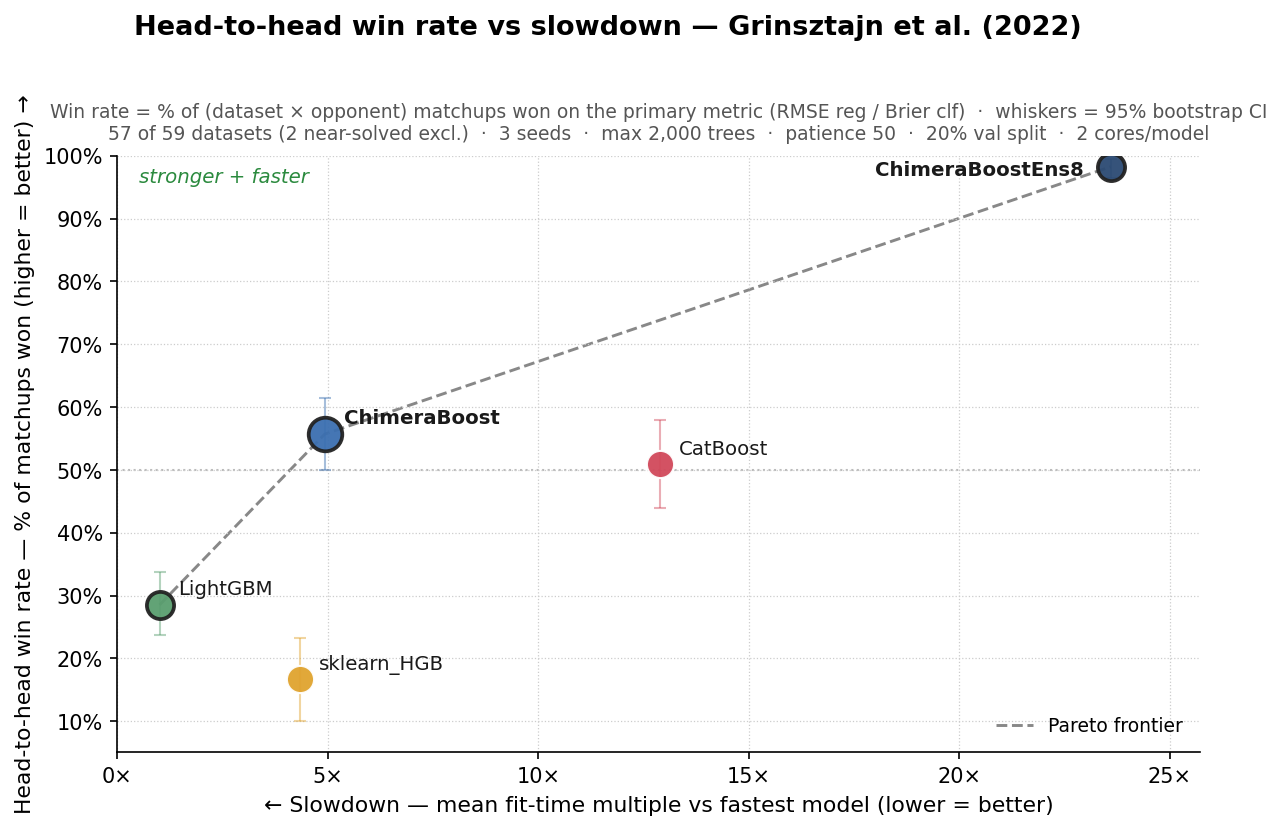
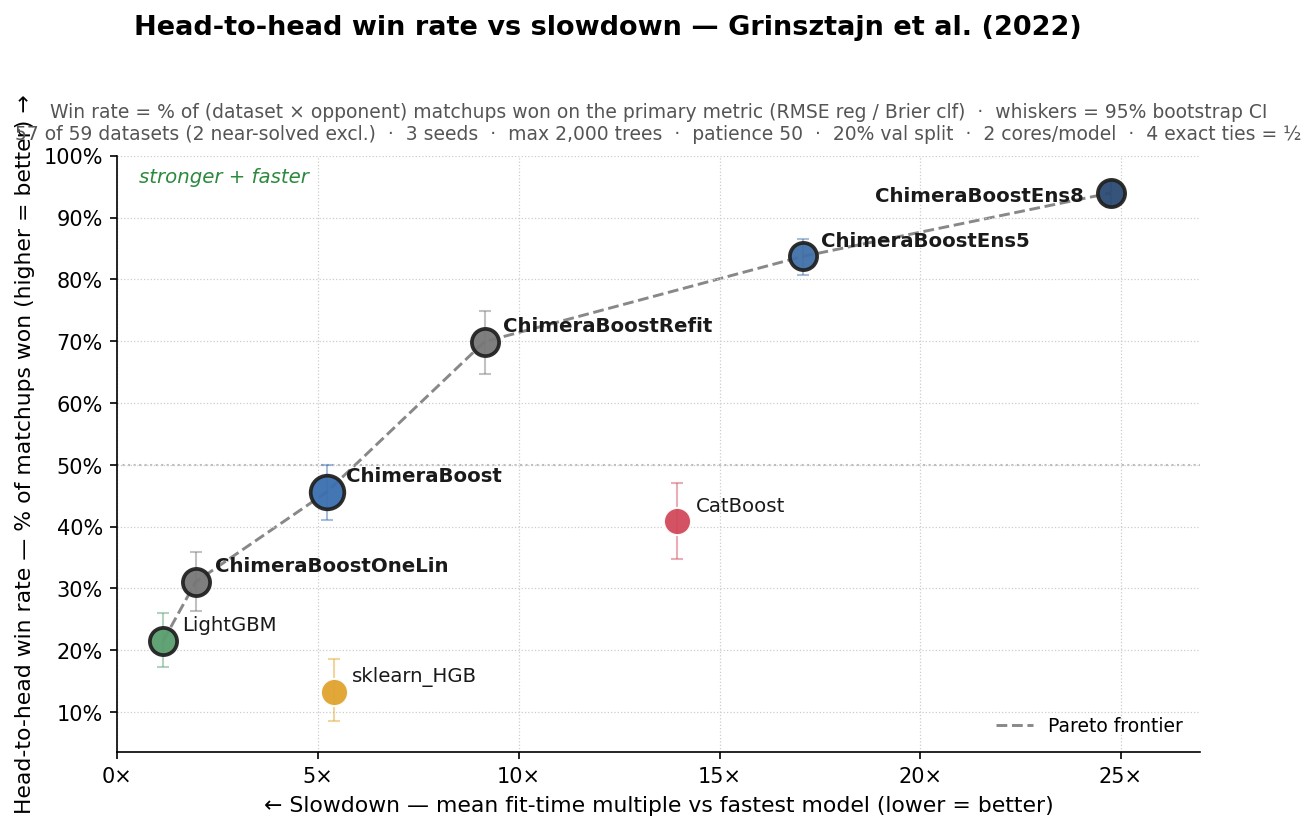
SELECT closed: five-rung ladder charted, quality shipped, docs
Ladder co-run (results/20260725-155127.json, Grinsztajn, 3 seeds, every
rung in ONE run so the column is comparable) puts all five rungs on the
Pareto frontier: 31.1% @ 1.95x, 45.6% @ 5.22x, 69.9% @ 9.15x, 83.7% @
17.07x, 94.0% @ 24.74x. LightGBM holds only the extreme-left corner at
21.6% @ 1.14x; CatBoost is dominated outright, beaten by rung 3 on both
axes (69.9 vs 40.9 at 9.15x vs 13.93x). Rung 4 finally has a real
number -- 17.07x, not the stale ~43x that predated quantized histograms
and selection_rounds=100.

Win rate is field-relative, so absolute values sit below the previously
charted ones purely because the field now contains five ChimeraBoost
arms. Only within-run comparisons are meaningful; that is stated in the
plan rather than left for a reader to trip over.

High-card was sign-tested separately before any docs claim, and it is
where rung 1 is weakest: it loses to the default 1W-6L-7T and saves only
1.54x, because the cat/prep block is a fixed 15-25% of fit that skipping
auditions cannot touch. Documented as a caveat, not hidden.

Refreshes images/pareto.png and winrate_matrix.png from the ladder run.
599 tests green.

Claude-Session: https://claude.ai/code/session_01QL8dKTqwRwQj3j8yJSJVw3

diff --git a/benchmarks/SELECT_PLAN.md b/benchmarks/SELECT_PLAN.md
@@ -149,8 +149,83 @@ Note the 24 exact ties in this run (charted runs report 0): `Sel25` and
 the default frequently resolve to the identical model, which is itself
 the evidence that the extra 75 audition rounds usually change nothing.
 
+## Phase 1 — canonical field (`results/20260725-152037.json`)
+
+`OneLin` holds up against the charted 5-arm field plus itself: **41.4% @
+1.93x**, on the frontier, chord needed 34.8% ⇒ **+6.6 points**. Reference
+points that run: ChimeraBoost 60.0% @ 5.13x, Ens8 98.6% @ 24.80x,
+LightGBM 28.8% @ 1.16x, CatBoost 53.0% @ 13.61x (dominated).
+
+### High-card is where rung 1 is weakest (`results/20260725-154149.json`)
+
+Sign-tested separately as registered, 14 sets, 3 seeds:
+
+- vs the default: **1W-6L-7T, mean −0.228%, median +0.000%** — it loses.
+- vs LightGBM: **7W-6L-1T, mean +0.936%** (7W-5L excluding the near-solved
+  `hc:cjs`; the full-set bar reads FAIL, the near-solved-excluded bar
+  PASS — `compare_runs` flags the disagreement).
+- Speed saving shrinks to **1.54x** (vs 2.7x on Grinsztajn): the cat/prep
+  block is a fixed 15-25% of fit that skipping auditions cannot touch.
+
+Documented as a caveat rather than hidden — rung 1 is for numeric-heavy
+data and sweeps; categorical-dominated data wants rung 2.
+
+## Ladder co-run (`results/20260725-155127.json`) — all five rungs on the frontier
+
+Every rung measured in ONE run against one field, which is what makes the
+column comparable. This run regenerated `images/pareto.png`.
+
+| rung | arm | win rate | slowdown | frontier |
+|---|---|--:|--:|---|
+| 5 max | Ens8 | 94.0% | 24.74x | yes |
+| 4 ensemble | Ens5 | 83.7% | 17.07x | yes |
+| 3 accurate | Refit | 69.9% | 9.15x | yes |
+| 2 balanced | ChimeraBoost | 45.6% | 5.22x | yes |
+| 1 fast | OneLin | 31.1% | 1.95x | yes |
+| — | CatBoost | 40.9% | 13.93x | **no** |
+| — | LightGBM | 21.6% | 1.14x | yes |
+| — | sklearn_HGB | 13.3% | 5.39x | no |
+
+- **The frontier is a ChimeraBoost ladder**: five non-dominated rungs from
+  1.95x to 24.74x, with LightGBM holding only the extreme-left corner.
+  CatBoost is dominated outright — rung 3 is both stronger (69.9 vs 40.9)
+  and faster (9.15x vs 13.93x).
+- **Rung 4 finally has a number: 17.07x**, not the stale ~43x that
+  predated quantized histograms and `selection_rounds=100`.
+- Win rate is **field-relative**. Absolute values are lower here than in
+  Phase 1 because the field now holds five ChimeraBoost arms, which are
+  strong opponents. Only within-run comparisons are meaningful.
+- Bars A/B were registered for the FAST rung. Applying the chord to rungs
+  3-5 is meaningless — it extrapolates past its own strong anchor and
+  demands >100% win rates. Frontier membership is by domination and is
+  the valid reading there.
+
+## Shipped
+
+`quality=1..5` (`chimeraboost/sklearn_api.py`), a named operating point
+that only pins existing parameters. `quality=None` and `quality=2` are
+both bit-identical to the current defaults, and `quality=1` is
+bit-identical to the benchmarked `OneLin` arm on both estimators — so the
+numbers above are the parameter's own, not a lookalike's. Defaults
+unchanged, so no OpenML gate is owed. Docs: `docs/recipes.md`,
+`docs/parameters.md`.
+
+## Still open
+
+- **`Sel25`** — auditions at 25 rounds instead of 100 were parity on
+  Grinsztajn (20W-23L-16T, mean −0.044%, median exactly +0.000%) for 26%
+  less fit time. A default change, so it needs its own /experiment with
+  the full gate. The 16 exact ties are the tell: three-quarters of the
+  audition budget usually changes nothing.
+- **A "use cross features without auditioning" mode.** Rung 1 currently
+  drops cross features entirely because `cross_features=True` still races
+  (`sklearn_api.py:1443`). A forced-on mode could give a stronger rung 1
+  at the same one-fit cost. Untested.
+
 ## Log
 
 - 2026-07-25: pre-registered.
 - 2026-07-25: Phase 0 PASS on `OneLin`; `One` killed; `Sel25` parity
-  finding recorded for a separate /experiment. Phase 1 next.
+  finding recorded for a separate /experiment.
+- 2026-07-25: Phase 1 PASS, high-card caveat measured, ladder co-run
+  charted, `quality=1..5` shipped. Program closed.

diff --git a/docs/recipes.md b/docs/recipes.md
@@ -20,6 +20,46 @@ proba = clf.predict_proba(X_test)       # columns follow clf.classes_
 
 A plain `fit(X, y)` early-stops on an internal holdout — see [Early stopping](#early-stopping).
 
+## Speed/accuracy ladder
+
+`quality` picks an operating point, from `1` (fastest) to `5` (strongest).
+It is shorthand only: every rung just sets the parameters in the last column,
+and `quality=2` is byte-for-byte the shipped defaults.
+
+```python
+reg = ChimeraBoostRegressor(quality=1, random_state=0).fit(X_train, y_train)
+```
+
+| `quality` | name | fit time | sets |
+|---|---|--:|---|
+| `1` | fast | **1.9x** | `linear_leaves=True`, `cross_features=False` |
+| `2` | balanced *(= default)* | 5.2x | — |
+| `3` | accurate | 9.2x | `refit_full=True` |
+| `4` | ensemble | 17.1x | `n_ensembles=5` |
+| `5` | max | 24.7x | `n_ensembles=8` |
+
+Fit time is the mean multiple of the fastest model on each Grinsztajn dataset,
+3 seeds. All five rungs sit on the accuracy/speed Pareto frontier — each one
+buys real accuracy for its extra time, and none is dominated by another.
+
+**What rung 1 gives up.** By default ChimeraBoost auditions its own
+configuration — constant against linear leaves, plain against cross features —
+which costs two to four boosting fits. `quality=1` pins both decisions instead
+of racing them, so it fits once. On the Grinsztajn suite it still beats
+LightGBM (38 wins to 21) at roughly 1.7x LightGBM's fit time. On
+high-cardinality categorical data the trade is thinner: the saving drops to
+about 1.5x, because categorical preprocessing is a fixed cost the audition
+skip cannot touch, and it loses to the default (1 win, 6 losses, 7 ties). Pin
+it for numeric-heavy data and large sweeps; prefer `2` when categoricals
+dominate.
+
+**Rungs 4 and 5 do not stack on rung 3.** `refit_full` is a no-op inside
+bagged members — their out-of-bag rows already act as an eval set — so the
+ensemble rungs build on the plain defaults, not on `accurate`.
+
+If you set `quality` alongside a parameter it controls, `quality` wins and
+warns. Drop it to set those parameters yourself.
+
 ## Categorical features
 
 Pass your categoricals as `cat_features`, by integer position or — for a DataFrame — by

diff --git a/CHANGELOG.md b/CHANGELOG.md
@@ -4,6 +4,26 @@ All notable changes to ChimeraBoost are documented here.
 The format follows [Keep a Changelog](https://keepachangelog.com/).
 
 ## [Unreleased]
+### Added
+- **``quality=1..5``: named operating points on the speed/accuracy curve.**
+  ``1`` fast, ``2`` balanced (the shipped defaults), ``3`` accurate,
+  ``4`` ensemble, ``5`` max. Each rung only pins parameters that already
+  exist, so nothing new is computed and ``quality=None``/``quality=2`` are
+  bit-identical to previous releases. Measured on Grinsztajn (3 seeds, one
+  co-run so the column is comparable), **all five rungs sit on the
+  accuracy/speed Pareto frontier**: 31.1% of head-to-head matchups won at
+  1.95x fit time, 45.6% at 5.22x, 69.9% at 9.15x, 83.7% at 17.07x, 94.0%
+  at 24.74x — against LightGBM's 21.6% at 1.14x and CatBoost's 40.9% at
+  13.93x, which is dominated by rung 3 on both axes. Rung 1 buys out the
+  configuration search (the default auditions constant-vs-linear leaves
+  and plain-vs-cross features, costing two to four boosting fits) and
+  fits once; it still beats LightGBM 38W-21L on Grinsztajn, but on
+  high-cardinality categorical data it loses to the default (1W-6L-7T)
+  and saves only 1.5x, so prefer ``quality=2`` there. Rungs 4 and 5 build
+  on the defaults, not on rung 3 — ``refit_full`` is a no-op inside bagged
+  members. Where ``quality`` collides with a parameter you set yourself it
+  wins and warns. Evidence: benchmarks/SELECT_PLAN.md.
+
 ### Changed
 - **Vector-leaf multiclass.** ``MulticlassBoosting`` now grows ONE oblivious
   tree per round with K-vector Newton leaves (shared structure, per-class

diff --git a/docs/parameters.md b/docs/parameters.md
@@ -2,6 +2,12 @@
 
 For more detail, see [API reference](api.md).
 
+## Operating point
+
+| Parameter | Default | Effect |
+|---|---|---|
+| `quality` | `None` | Named operating point on the speed/accuracy curve, `1` (fastest) to `5` (strongest). Sets only the parameters listed in [Recipes → speed/accuracy ladder](recipes.md#speedaccuracy-ladder); `None` and `2` are both exactly the shipped defaults. Where it collides with a parameter you set yourself, `quality` wins and warns — drop it to take control back. |
+
 ## Core boosting
 
 | Parameter | Default | Effect |
